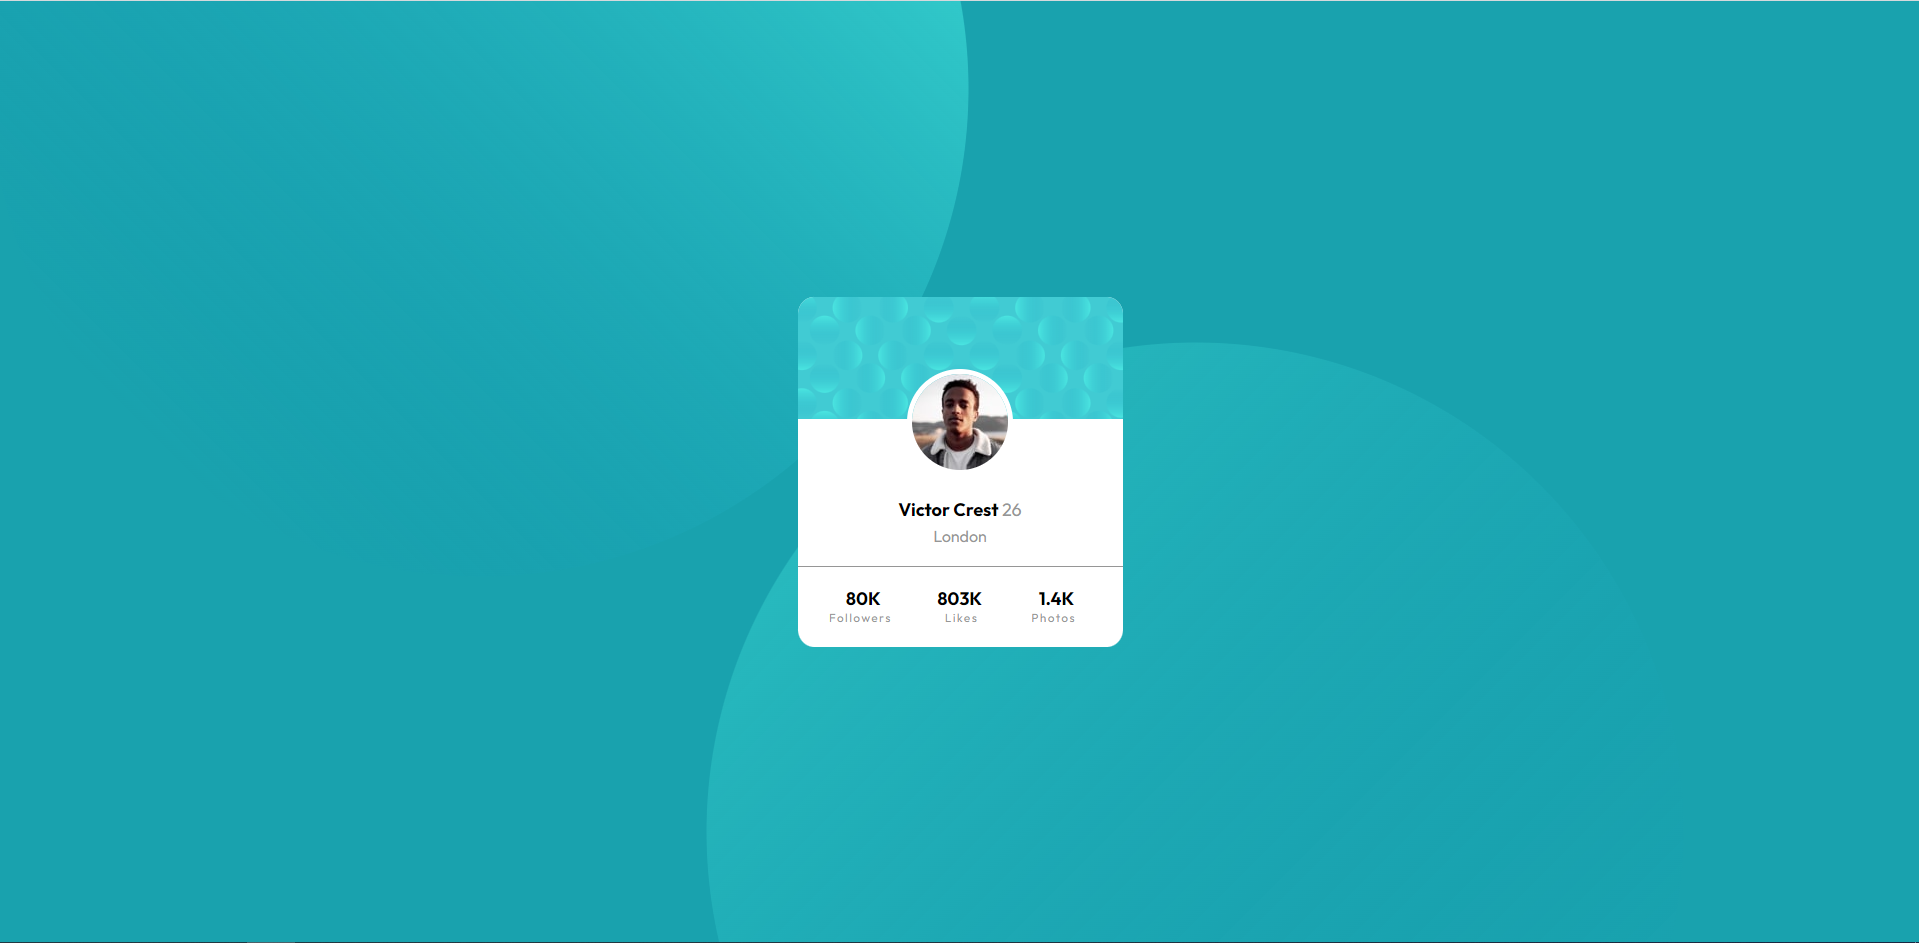
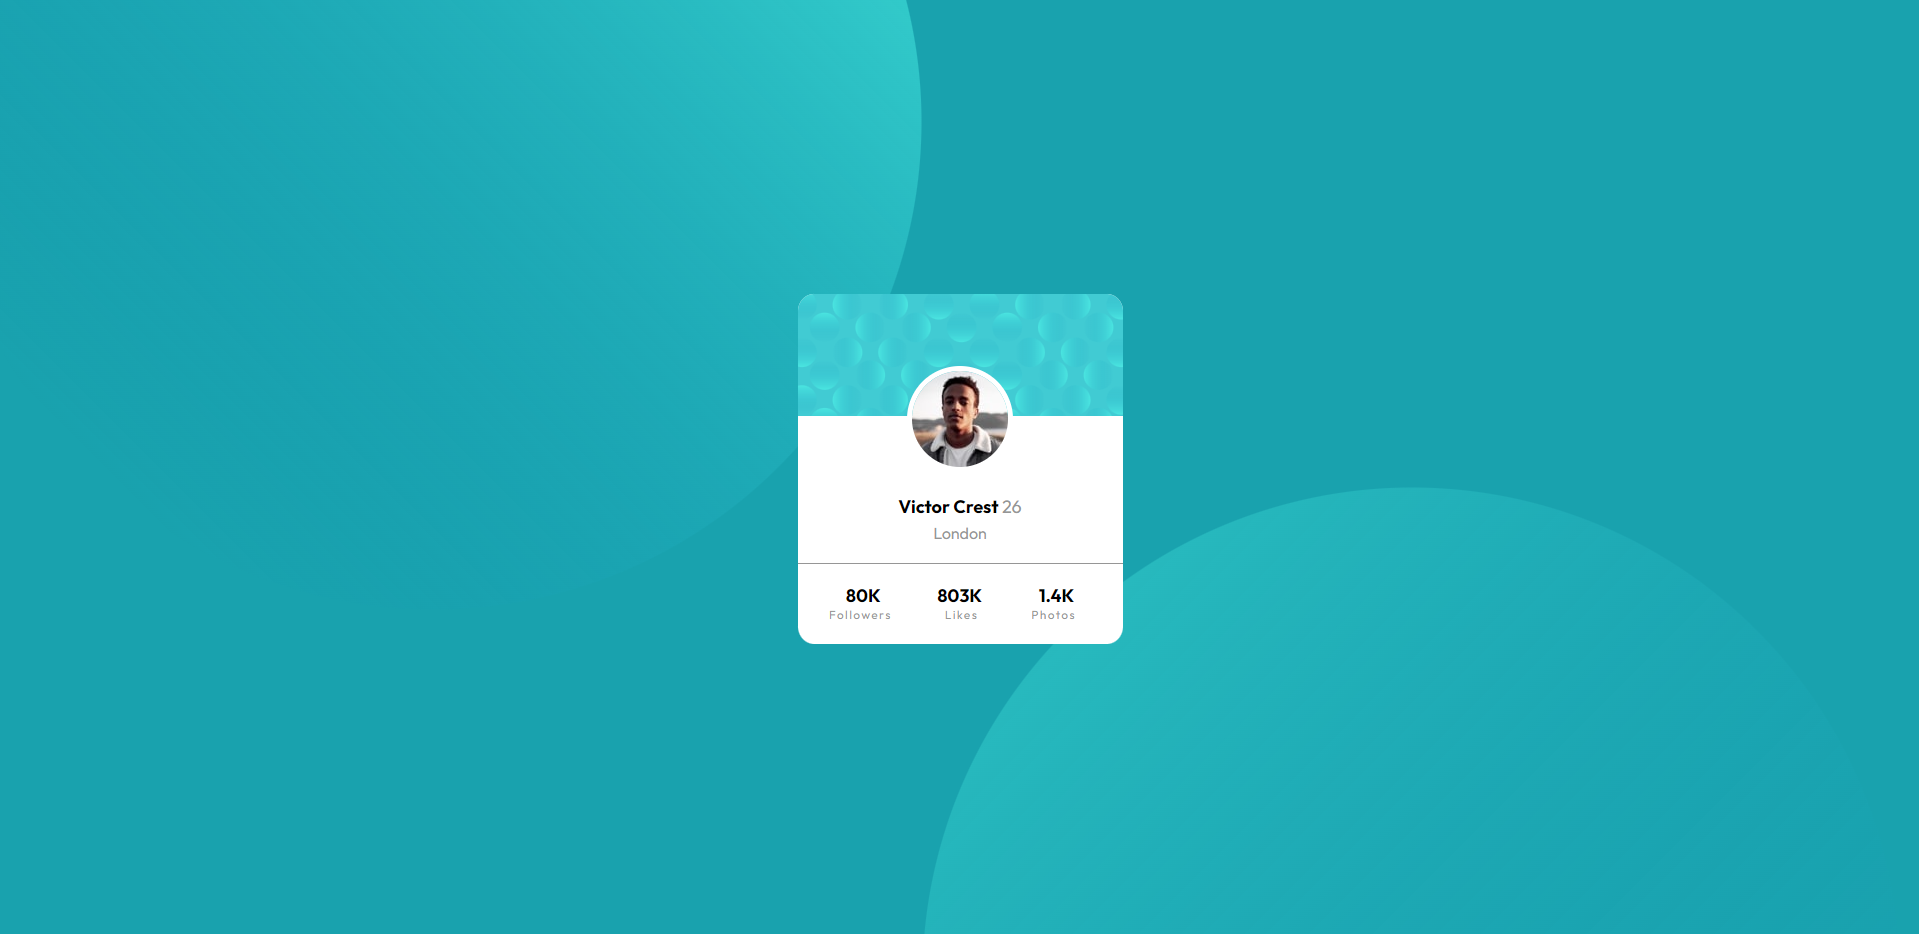
Add files via upload

diff --git a/style.css b/style.css
@@ -7,6 +7,10 @@ body {
     padding: 0;
     box-sizing: border-box;
     font-family: 'Outfit', sans-serif;
+    background: url(./images/bg-pattern-top.svg), url(./images/bg-pattern-bottom.svg);
+    background-position: right 52vw bottom 35vh, left 48vw top 52vh;
+    background-repeat: no-repeat, no-repeat;
+    background-color: hsl(185deg, 75%, 39%);
     background-color: hsl(185, 75%, 39%);
     font-size: 18px;
     overflow: hidden;

diff --git a/index.html b/index.html
@@ -20,8 +20,6 @@
 </head>
 <body>
   <main class="container">
-    <img class="bg-top" src="./images/bg-pattern-top.svg" alt="">
-    <img class="bg-bottom" src="./images/bg-pattern-bottom.svg" alt="">
     <div class="box">
       <div class="bg-container"></div> 
       <img src="./images/image-victor.jpg" alt="Victor Crest">
